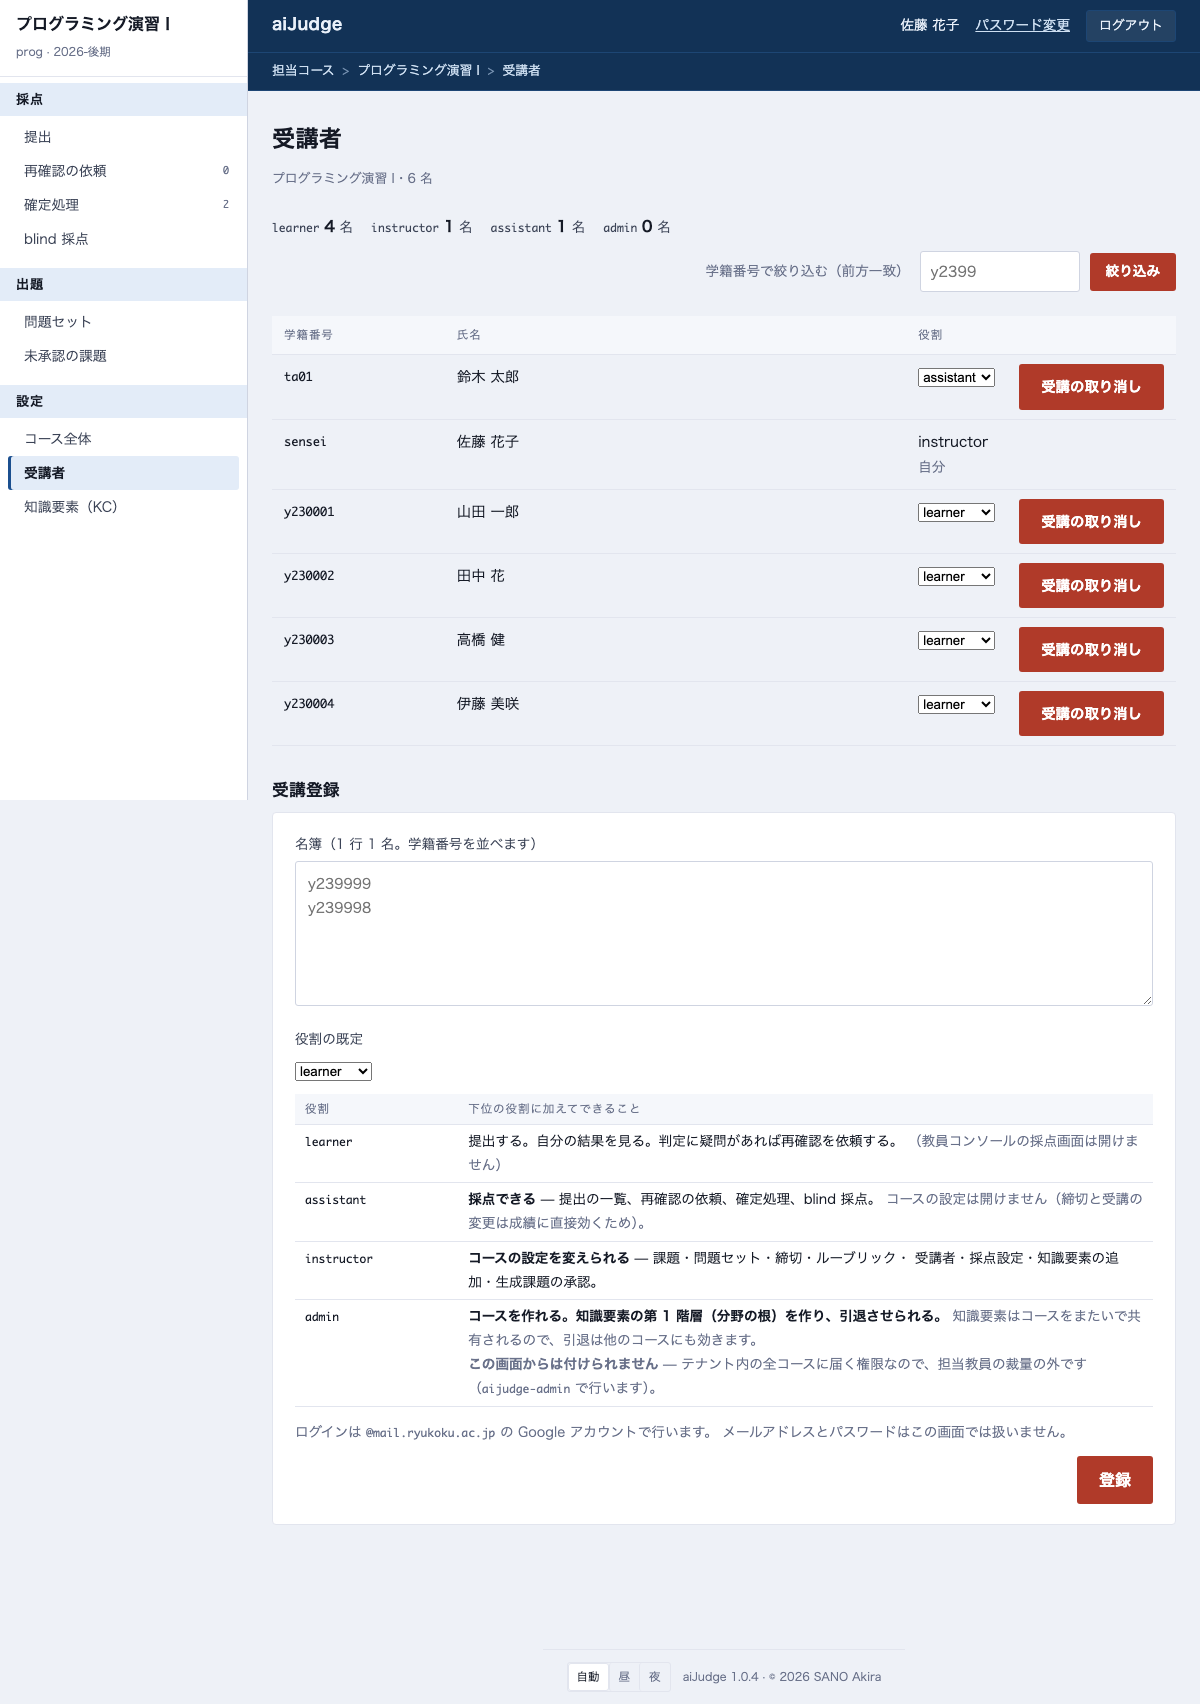
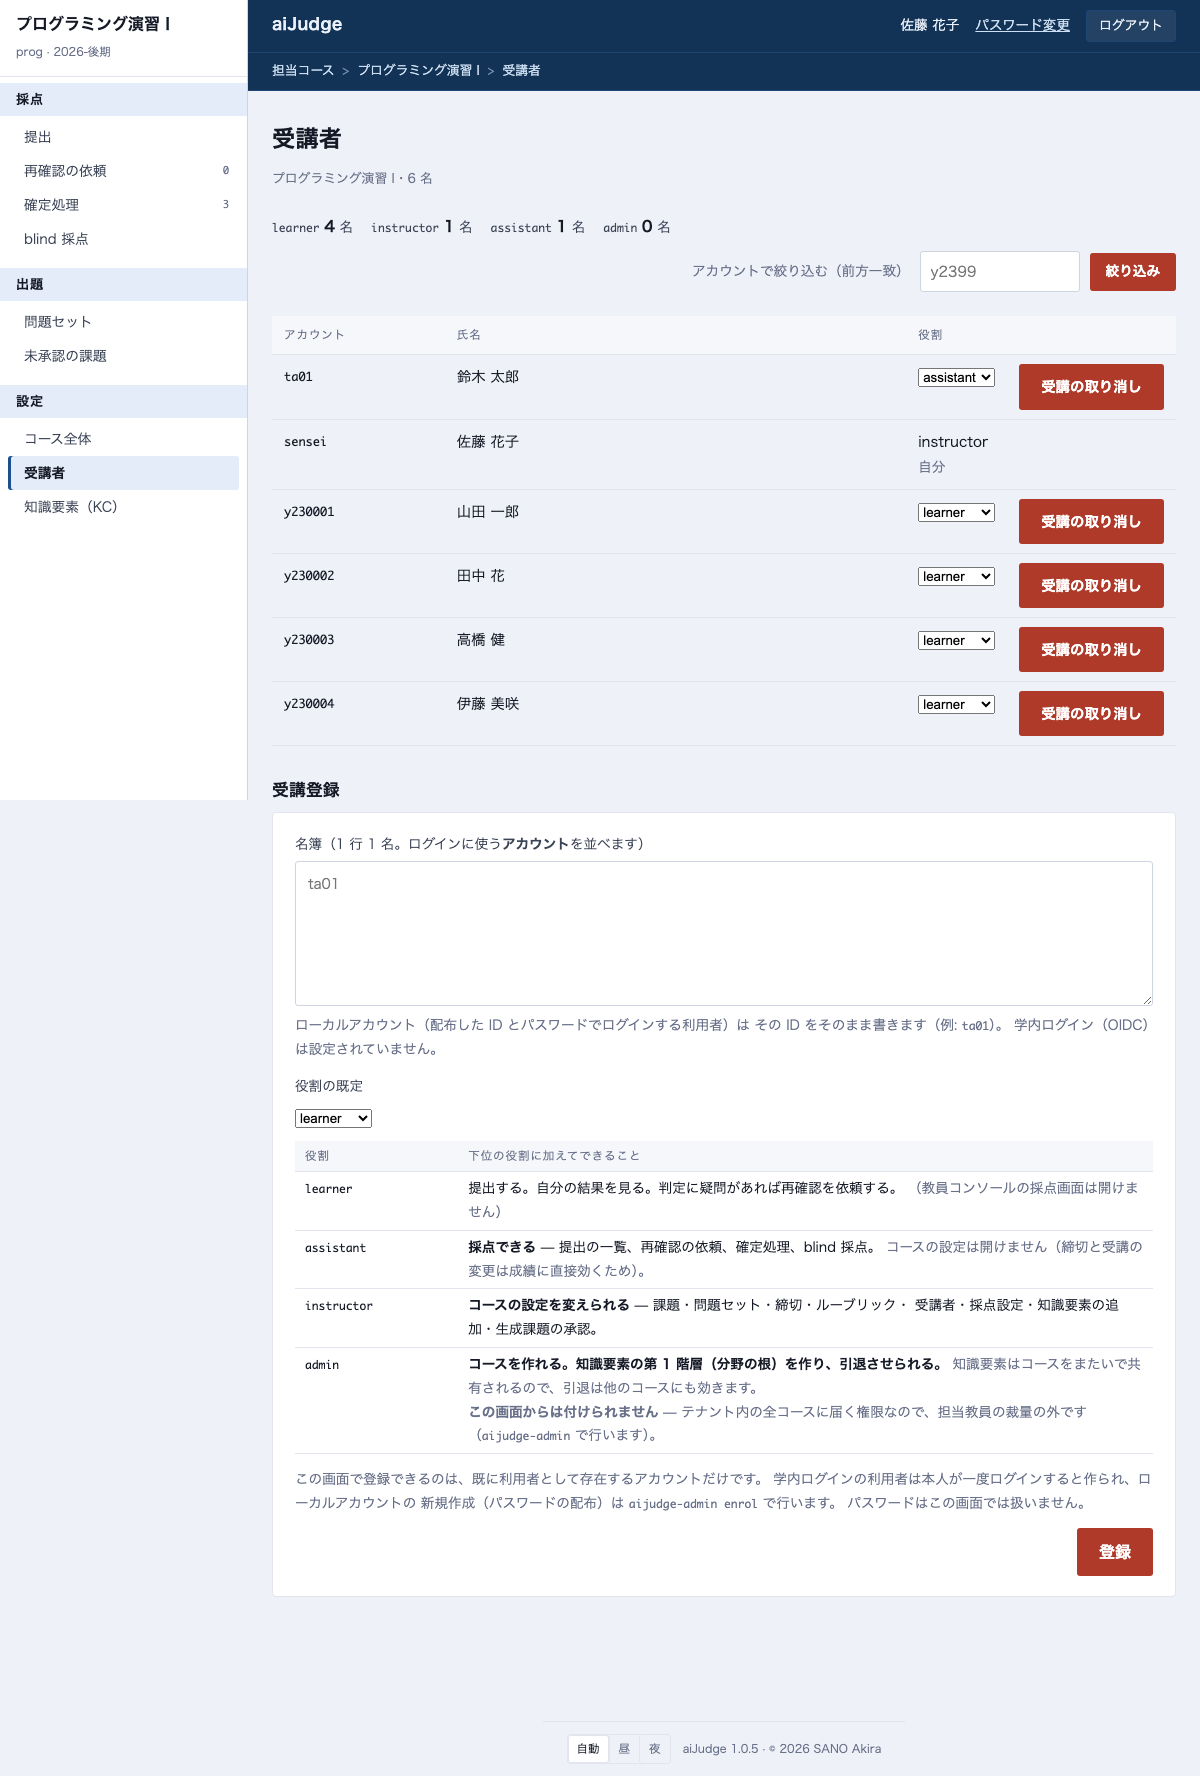
fix(console): say accounts on the enrolment form, report what did not enrol, and post task edits under the prefix
The roster form said 'list student numbers', but at Ryukoku the account
of an SSO user is <number>@mail.ryukoku.ac.jp, so a list of bare numbers
enrolled nobody. The form now names accounts, shows an example built from
the OIDC allowed domain plus a local-account example, and the table and
filter say account too.

A roster with unknown accounts used to be refused whole; now the known
ones are enrolled and the page comes back to the enrolment screen saying
how many were enrolled, how many were already there, and which accounts
could not be enrolled (capped at 20 in the URL).

Closes #281: the task edit form posted to /manage/... without the
console root prefix, so saving under /console returned Not Found. A test
now scans the templates for actions that skip the prefix.

Claude-Session: https://claude.ai/code/session_014EvSiekev9DtXZfjbJEYRo

diff --git a/apps/reviewconsole/src/aijudge_reviewconsole/templates/manage_enrolments.html b/apps/reviewconsole/src/aijudge_reviewconsole/templates/manage_enrolments.html
@@ -15,7 +15,7 @@
 {# 受講 100 名規模になるので、絞り込みは前方一致。選択肢に並べても選べない
    （提出の一覧と同じ理由）。 #}
 <form method="get" action="{{ root_prefix() }}/manage/courses/{{ course.id }}/enrolments" class="addline">
-  <label for="q" class="desc">学籍番号で絞り込む（前方一致）</label>
+  <label for="q" class="desc">アカウントで絞り込む（前方一致）</label>
   <input id="q" name="q" value="{{ q }}" placeholder="y2399" style="max-width:10rem"
          {{ 'autofocus' if q }}
          onfocus="this.setSelectionRange(this.value.length, this.value.length)">
@@ -23,18 +23,32 @@
   {% if q %}<a href="{{ root_prefix() }}/manage/courses/{{ course.id }}/enrolments" class="desc">解除</a>{% endif %}
 </form>
 
-{% if saved %}<div class="note saved">{{ saved }}</div>{% endif %}
+{% if enrol_result %}
+{# 受講登録の結果。**入った数と入らなかったアカウントを両方言う。**
+   「保存しました」だけだと、名簿の半分が未登録だったことに気づけない。 #}
+<div id="result" class="note {{ 'saved' if not enrol_result.unknown else 'warn' }}">
+  <strong>受講登録: {{ enrol_result.enrolled }} 件を登録しました</strong>
+  {% if enrol_result.already %}（ほかに {{ enrol_result.already }} 件は登録済みでした）{% endif %}
+  {% if enrol_result.unknown %}
+  <br><strong>{{ enrol_result.unknown | length }} 件は登録できませんでした</strong> ── 利用者が未登録のアカウントです:
+  <span class="mono">{{ enrol_result.unknown | join(', ') }}</span>
+  <br><span class="desc">学内ログインの利用者は、本人が一度ログインすると作られます。
+    ローカルアカウントの新規作成はパスワードの配布が伴うため、画面ではなく
+    <code>aijudge-admin enrol --credentials &lt;path&gt;</code> で行います。</span>
+  {% endif %}
+</div>
+{% elif saved %}<div class="note saved">{{ saved }}</div>{% endif %}
 
 {# 携帯では行を積む（`table.stack`）。**見出しはセルに添える** ── 列の
    位置から推測させない。 #}
 <table class="stack">
   <thead><tr>
-    <th class="fit">学籍番号</th><th class="grow">氏名</th><th class="fit">役割</th><th class="fit"></th>
+    <th class="fit">アカウント</th><th class="grow">氏名</th><th class="fit">役割</th><th class="fit"></th>
   </tr></thead>
   <tbody>
   {% for row in people %}
     <tr>
-      <td class="fit mono" data-label="学籍番号">{{ row.login }}</td>
+      <td class="fit mono" data-label="アカウント">{{ row.login }}</td>
       <td class="grow" data-label="氏名">{{ row.user.display_name if row.user else '—' }}</td>
       <td class="fit" data-label="役割">
         {% if row.enrollment.user_id == me.user_id %}
@@ -80,8 +94,21 @@
 <h2>受講登録</h2>
 <form method="post" action="{{ root_prefix() }}/manage/courses/{{ course.id }}/enrolments" class="card">
   <div class="field">
-    <label for="roster">名簿（1 行 1 名。学籍番号を並べます）</label>
-    <textarea id="roster" name="roster" rows="5" required placeholder="y239999&#10;y239998"></textarea>
+    {# **アカウントであって学籍番号ではない。** 学内ログイン（OIDC）の利用者の
+       アカウントは `<学籍番号>@<許可ドメイン>` で、番号だけを貼ると全員が
+       未登録になる。例は設定のドメインから作る（他機関でもそのまま合う）。 #}
+    <label for="roster">名簿（1 行 1 名。ログインに使う<strong>アカウント</strong>を並べます）</label>
+    <textarea id="roster" name="roster" rows="5" required
+              placeholder="{% if login_domains %}y239999@{{ login_domains[0] }}&#10;y239998@{{ login_domains[0] }}&#10;{% endif %}ta01"></textarea>
+    <p class="desc">
+      {% if login_domains %}
+      学内ログインの利用者は <span class="mono">学籍番号@{{ login_domains | join(' / ') }}</span>
+      のように書きます（例: <span class="mono">y239999@{{ login_domains[0] }}</span>）。
+      {% endif %}
+      ローカルアカウント（配布した ID とパスワードでログインする利用者）は
+      その ID をそのまま書きます（例: <span class="mono">ta01</span>）。
+      {% if not login_domains %}学内ログイン（OIDC）は設定されていません。{% endif %}
+    </p>
   </div>
   <div class="field">
     <label for="role">役割の既定</label>
@@ -123,8 +150,10 @@
     </table>
   </div>
   <p class="desc">
-    ログインは <code>@mail.ryukoku.ac.jp</code> の Google アカウントで行います。
-    メールアドレスとパスワードはこの画面では扱いません。
+    この画面で登録できるのは、既に利用者として存在するアカウントだけです。
+    学内ログインの利用者は本人が一度ログインすると作られ、ローカルアカウントの
+    新規作成（パスワードの配布）は <code>aijudge-admin enrol</code> で行います。
+    パスワードはこの画面では扱いません。
   </p>
   <div class="actions"><button type="submit">登録</button></div>
 </form>

diff --git a/apps/reviewconsole/src/aijudge_reviewconsole/templates/manage_task.html b/apps/reviewconsole/src/aijudge_reviewconsole/templates/manage_task.html
@@ -50,7 +50,10 @@
    門 1・門 2 の検査が走る）。訂正と、テストを使わない追加は待たない。 #}
 <form method="post" class="card"
       {% if not task and wants_tests %}data-working="生成中… 数十秒かかります（このまま待ってください）"{% endif %}
-      action="{{ '/manage/courses/%s/tasks/%s/revise' | format(course.id, task.id)
+      {# **接頭辞を通す**（#281）。ここだけ `/manage/...` を直に出していたので、
+         `/console` の下で動く運用機では prefix の外へ POST され、保存が
+         `{"detail":"Not Found"}` になった。ローカル（接頭辞なし）では出ない。 #}
+      action="{{ root_prefix() }}{{ '/manage/courses/%s/tasks/%s/revise' | format(course.id, task.id)
                 if task else '/manage/courses/%s/tasks' | format(course.id) }}">
   {% if task %}
     <p class="desc" style="margin:0 0 14px">

diff --git a/apps/reviewconsole/src/aijudge_reviewconsole/manage.py b/apps/reviewconsole/src/aijudge_reviewconsole/manage.py
@@ -591,6 +591,9 @@ def _key_candidates(task) -> list[str]:
 # どこを触っていたのかを探し直すことになる（設定が縦に並ぶ画面ほど効く）。
 # 素の HTML でこれをやるには、リダイレクト先に錨を付けるのが確実で、
 # JavaScript も要らない。
+# 受講登録の結果に載せる「未登録アカウント」の上限。それ以上は件数だけ言う。
+MAX_UNKNOWN_SHOWN = 20
+
 SAVED_MESSAGES: dict[str, str] = {
     "schedule": "日程を保存しました（この問題セットの全課題に反映）",
     "moved": "課題を移しました（日程は移動先に揃えました）",
@@ -4225,12 +4228,25 @@ def register(templates) -> APIRouter:
         )
 
     @router.get("/courses/{course_id}/enrolments", response_class=HTMLResponse)
-    def enrolments(request: Request, course_id: str, q: str = "", saved: str = "") -> Response:
+    def enrolments(
+        request: Request,
+        course_id: str,
+        q: str = "",
+        saved: str = "",
+        enrolled: int = 0,
+        already: int = 0,
+        unknown: str = "",
+    ) -> Response:
         """受講者の一覧。**コースの設定とは別の画面にする。**
 
         受講 100 名規模になると、設定を 1 つ直しに来た教員が毎回 100 行を
         めくることになる。絞り込みは前方一致 ── 選択肢に並べても選べない
         （提出の一覧と同じ理由）。
+
+        `enrolled` / `already` / `unknown` は直前の受講登録の結果
+        （`add_enrolments` がリダイレクトで渡す）。**何件入って何件が
+        入らなかったかを、その場で言う。** 「保存しました」だけだと、
+        名簿の半分が未登録だったことに学期が始まってから気づく。
         """
         from .app import require_principal
 
@@ -4240,6 +4256,7 @@ def register(templates) -> APIRouter:
 
         prefix = q.strip().lower()
         with console.database.unit_of_work() as uow:
+            oidc = uow.identity.get_oidc_settings(me.tenant_id)
             all_enrollments = uow.identity.list_enrollments(course.id)
             people = []
             for enrollment in all_enrollments:
@@ -4270,6 +4287,21 @@ def register(templates) -> APIRouter:
                 "roles": [role.value for role in GRANTABLE_ROLES],
                 "saved": SAVED_MESSAGES.get(saved),
                 "saved_key": saved,
+                # **アカウントの書き方は設定から出す。** 学内ログイン（OIDC）の
+                # アカウントは `<学籍番号>@<許可ドメイン>` で、ローカルアカウント
+                # は login そのもの。「学籍番号を並べる」と書いていたが、龍大では
+                # 学籍番号＠ドメインがアカウントなので、番号だけを貼ると全員が
+                # 未登録になる。
+                "login_domains": list(oidc.allowed_domains) if oidc else [],
+                "enrol_result": (
+                    {
+                        "enrolled": enrolled,
+                        "already": already,
+                        "unknown": [name for name in unquote(unknown).split(",") if name],
+                    }
+                    if saved == "enrolled"
+                    else None
+                ),
             },
         )
 
@@ -4351,30 +4383,36 @@ def register(templates) -> APIRouter:
 
         # 画面からは**既存利用者の登録だけ**を許す。新規作成はパスワードの
         # 配布が伴うので CLI（`aijudge-admin enrol --credentials`）で行う。
+        #
+        # **未登録が混ざっていても、残りは入れる。** 全部を断ると、100 行の
+        # 名簿が 1 行の綴り違いで丸ごと弾かれ、教員はどの行かを探して貼り
+        # 直すことになる。入った件数と入らなかったアカウントは戻り先の画面に
+        # そのまま出す（`enrolments` の `enrol_result`）。
         with console.database.unit_of_work() as uow:
-            unknown = [
-                entry.login
+            known = tuple(
+                entry
                 for entry in entries
-                if uow.identity.find_user_by_login(me.tenant_id, entry.login) is None
-            ]
-        if unknown:
-            raise HTTPException(
-                status_code=400,
-                detail=(
-                    f"利用者が未登録です: {', '.join(unknown[:10])}"
-                    f"{' ほか' if len(unknown) > 10 else ''}。"
-                    "新規作成はパスワードの配布が伴うため "
-                    "`aijudge-admin enrol --credentials <path>` で行ってください"
-                ),
+                if uow.identity.find_user_by_login(me.tenant_id, entry.login) is not None
             )
-        enrol_roster(
-            console.database,
-            tenant_id=me.tenant_id,
-            course_id=CourseId(course_id),
-            entries=entries,
-        )
+        unknown = [entry.login for entry in entries if entry not in known]
+        enrolled = already = 0
+        if known:
+            report = enrol_roster(
+                console.database,
+                tenant_id=me.tenant_id,
+                course_id=CourseId(course_id),
+                entries=known,
+            )
+            enrolled, already = len(report.enrolled), len(report.already)
+        # 未登録の一覧は URL に載せて戻す。**長さは切る** ── 名簿を丸ごと
+        # 間違えた（番号だけを貼った）ときに、URL が数千文字になる。
+        shown = ",".join(unknown[:MAX_UNKNOWN_SHOWN])
+        if len(unknown) > MAX_UNKNOWN_SHOWN:
+            shown += f",…ほか {len(unknown) - MAX_UNKNOWN_SHOWN} 件"
         return RedirectResponse(
-            f"/manage/courses/{course_id}?saved=enrolled#enrolments", status_code=303
+            f"/manage/courses/{course_id}/enrolments?saved=enrolled"
+            f"&enrolled={enrolled}&already={already}&unknown={quote(shown)}#result",
+            status_code=303,
         )
 
     @router.post("/courses/{course_id}/enrolments/{user_id}/remove")

diff --git a/apps/reviewconsole/tests/test_manage.py b/apps/reviewconsole/tests/test_manage.py
@@ -1128,17 +1128,86 @@ def test_an_existing_user_can_be_enrolled(world: World) -> None:
         )
 
 
-def test_an_unknown_user_is_refused_with_a_pointer_to_the_cli(world: World) -> None:
-    """新規作成はパスワードの配布が伴う。画面に平文を出さない。"""
+def test_enrolment_comes_back_to_the_same_page_with_the_counts(world: World) -> None:
+    """登録のあとは受講者の画面に戻り、**何件入ったか**をその場で言う。"""
     world.register("teacher", Role.INSTRUCTOR)
+    world.register("y239999", None)
+    world.register("y239998", Role.LEARNER)
     response = world.client("teacher").post(
         f"/manage/courses/{world.course.id}/enrolments",
-        data={"roster": "nobody", "role": "learner"},
+        data={"roster": "y239999\ny239998", "role": "learner"},
+        follow_redirects=False,
     )
-    assert response.status_code == 400
-    detail = response.json()["detail"]
-    assert "未登録" in detail
-    assert "aijudge-admin enrol" in detail
+    assert response.status_code == 303
+    location = response.headers["location"]
+    assert location.startswith(f"/manage/courses/{world.course.id}/enrolments?")
+    assert "enrolled=1" in location and "already=1" in location
+
+    page = world.client("teacher").get(location).text
+    assert "1 件を登録しました" in page
+    assert "1 件は登録済み" in page
+    assert "登録できませんでした" not in page
+
+
+def test_unknown_accounts_are_reported_and_the_rest_are_enrolled(world: World) -> None:
+    """**未登録が混ざっていても残りは入れる。** 入らなかったアカウントは
+    画面に名指しで出す ── 全部を断ると、100 行の名簿が 1 行の綴り違いで
+    丸ごと弾かれる。新規作成はパスワードの配布が伴うので CLI に回す。"""
+    world.register("teacher", Role.INSTRUCTOR)
+    world.register("y239999", None)
+    response = world.client("teacher").post(
+        f"/manage/courses/{world.course.id}/enrolments",
+        data={"roster": "y239999\nnobody\nghost@example.ac.jp", "role": "learner"},
+        follow_redirects=False,
+    )
+    assert response.status_code == 303
+    page = world.client("teacher").get(response.headers["location"]).text
+    assert "1 件を登録しました" in page
+    assert "2 件は登録できませんでした" in page
+    assert "nobody, ghost@example.ac.jp" in page
+    assert "aijudge-admin enrol" in page
+
+    with world.database.unit_of_work() as uow:
+        user = uow.identity.find_user_by_login(TENANT, "y239999")
+        assert user is not None
+        assert (
+            AuthService(uow.identity, audit=uow.audit).role_in(world.course.id, user.id)
+            is Role.LEARNER
+        )
+        assert uow.identity.find_user_by_login(TENANT, "nobody") is None
+
+
+def test_the_roster_form_names_accounts_not_student_numbers(
+    world: World, monkeypatch: pytest.MonkeyPatch
+) -> None:
+    """龍大では `学籍番号@mail.ryukoku.ac.jp` がアカウントで、「学籍番号を
+    並べる」と書くと番号だけが貼られて全員が未登録になる。例は OIDC の
+    許可ドメインから作り、ローカルアカウントの例も並べる。"""
+    world.register("teacher", Role.INSTRUCTOR)
+    page = world.client("teacher").get(f"/manage/courses/{world.course.id}/enrolments").text
+    assert "学籍番号を並べます" not in page
+    assert "アカウント" in page
+    assert "ta01" in page
+    assert "学内ログイン（OIDC）は設定されていません" in page
+
+    from cryptography.fernet import Fernet
+
+    from aijudge_identity import OidcSettings
+    from aijudge_persistence import ENV_OIDC_SECRET_KEY
+
+    monkeypatch.setenv(ENV_OIDC_SECRET_KEY, Fernet.generate_key().decode("ascii"))
+    with world.database.unit_of_work() as uow:
+        uow.identity.save_oidc_settings(
+            OidcSettings(
+                tenant_id=TENANT,
+                client_id="client-abc",
+                client_secret="test-secret",
+                allowed_domains=("example.ac.jp",),
+            )
+        )
+        uow.commit()
+    page = world.client("teacher").get(f"/manage/courses/{world.course.id}/enrolments").text
+    assert "y239999@example.ac.jp" in page
 
 
 def test_a_broken_roster_is_refused(world: World) -> None:
@@ -5648,6 +5717,24 @@ def test_the_breadcrumb_class_is_not_used_for_anything_else() -> None:
     """
     templates = Path(__file__).resolve().parents[1] / "src" / "aijudge_reviewconsole" / "templates"
     guilty = [path.name for path in templates.glob("*.html") if 'class="crumb"' in path.read_text()]
+
+    assert guilty == []
+
+
+def test_no_form_posts_to_a_path_without_the_prefix() -> None:
+    """テンプレートの `action=` は必ず `root_prefix()` を通す（#281）。
+
+    課題の編集フォームだけが `/manage/...` を直に出しており、`/console` の
+    下で動く運用機では prefix の外へ POST されて保存が 404 になった。
+    ローカル（接頭辞なし）では再現しないので、書き方そのものを固定する。
+    """
+    templates = Path(__file__).resolve().parents[1] / "src" / "aijudge_reviewconsole" / "templates"
+    guilty = [
+        f"{path.name}:{number}"
+        for path in templates.glob("*.html")
+        for number, line in enumerate(path.read_text().splitlines(), 1)
+        if re.search(r"""action=["']\{\{\s*'/""", line) or re.search(r"""action=["']/""", line)
+    ]
 
     assert guilty == []
 

diff --git a/docs/guide/instructor.md b/docs/guide/instructor.md
@@ -26,7 +26,7 @@ flowchart LR
 
 ## 2. 受講者を登録する
 
-左の帯「受講者」で、学籍番号を 1 行 1 名で貼り付けて登録します。役割は行ごとに変えられます。
+左の帯「受講者」で、ログインに使う**アカウント**を 1 行 1 名で貼り付けて登録します。学内ログインの利用者は `学籍番号@mail.ryukoku.ac.jp` のようにドメイン付きで、配布したローカルアカウントは ID そのままです（画面に例が出ます）。登録すると何件入ったかと、利用者が未登録で入らなかったアカウントがその場に表示されます。役割は行ごとに変えられます。
 
 ![受講者](images/in-enrolments.png)
 
